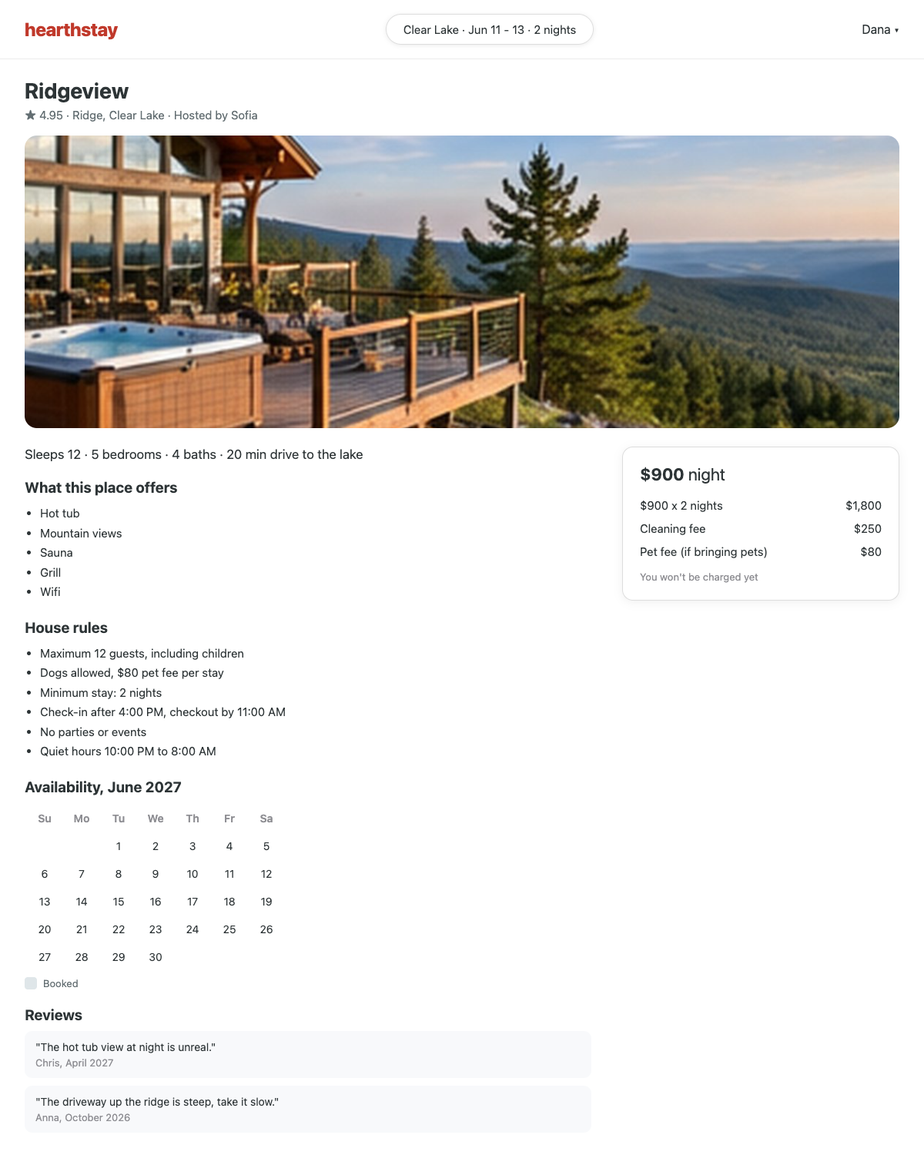
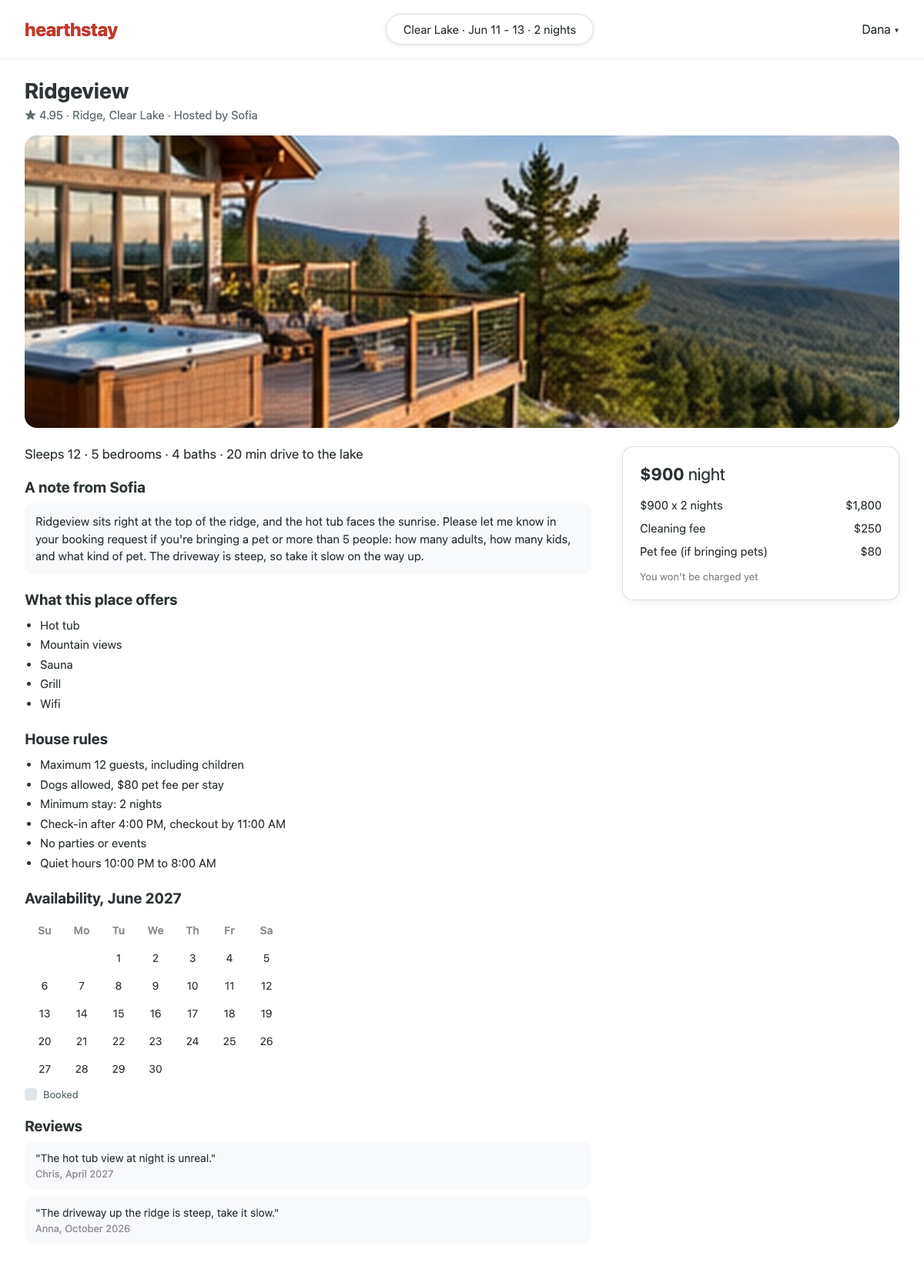
Update: the briefing page (one switch point, plan or plan as you go, Copy for Claude), Claude's rules (Dana makes the calls, files only when asked), host notes on the listings, and the README's ways to open Claude Code

diff --git a/START_HERE.html b/START_HERE.html
@@ -105,8 +105,8 @@ h3 { font-size: 21px; letter-spacing: -0.015em; }
 
 /* Section nav */
 .nav { position: sticky; top: 0; z-index: 20; background: rgba(8,18,41,.92); -webkit-backdrop-filter: blur(10px); backdrop-filter: blur(10px); border-bottom: 1px solid var(--hair); }
-.nav .wrap { display: flex; gap: 6px; overflow-x: auto; padding-top: 10px; padding-bottom: 10px; scrollbar-width: none; }
-.nav a { flex: none; font: 700 11px/1 var(--mono); letter-spacing: .12em; text-transform: uppercase; color: var(--soft); text-decoration: none; padding: 9px 12px; border-radius: 999px; border: 1px solid transparent; }
+.nav .wrap { display: flex; gap: 2px; overflow-x: auto; padding-top: 10px; padding-bottom: 10px; scrollbar-width: none; }
+.nav a { flex: none; font: 700 11px/1 var(--mono); letter-spacing: .08em; text-transform: uppercase; color: var(--soft); text-decoration: none; padding: 9px 9px; border-radius: 999px; border: 1px solid transparent; }
 .nav a:hover { border-color: var(--hair); color: var(--cream); }
 
 section.block { padding: 88px 0; border-bottom: 1px solid var(--hair); }
@@ -251,6 +251,7 @@ h3.sub { margin: 40px 0 16px; }
 .phone-note .h::before { content: ""; width: 8px; height: 8px; border-radius: 50%; background: var(--gold); box-shadow: 0 0 0 3px rgba(242,199,41,.3); }
 .phone-note h3 { margin-bottom: 8px; }
 .phone-note p { margin: 0; color: #3b4660; font-size: 16px; }
+.phone-note a { color: var(--navy); font-weight: 700; }
 
 .cheat { display: grid; grid-template-columns: 1.1fr .9fr; gap: 24px; align-items: start; }
 .rows { display: grid; gap: 0; }
@@ -324,7 +325,7 @@ footer .wrap span:last-child::after { content: "_"; color: var(--gold); }
     <div>
       <p class="eyebrow">Hands-on exercise</p>
       <h1>You're Dana.<br>Lock in the <em>lake weekend.</em></h1>
-      <p class="lead">Eight friends, one group chat, a week of messages, and nothing decided. You said you'd sort it by Friday. In this exercise you'll work it out with Claude Code, one phase at a time, carrying a small file between phases instead of one long conversation. <strong>That way of working is the point; the cabin is the excuse.</strong></p>
+      <p class="lead">You and seven friends are planning a lake weekend. Everyone has opinions about the cabin, and nobody is taking charge of booking one, so it falls to you: gather everyone's requirements, compare them to what's available, and settle on a cabin and one thing to do together. You'll work it out with Claude Code one phase at a time, carrying a small file from each phase to the next instead of one long conversation.</p>
       <div class="cta-row">
         <a class="btn gold" href="#problem">Start here</a>
         <a class="btn" href="#idea">How it works</a>
@@ -370,8 +371,8 @@ footer .wrap span:last-child::after { content: "_"; color: var(--gold); }
     <a href="#inputs">What you have</a>
     <a href="#job">What you hand in</a>
     <a href="#idea">How it works</a>
-    <a href="#plan">1 · Plan</a>
-    <a href="#cheat">2 · Open Claude</a>
+    <a href="#cheat">1 · Open Claude Code</a>
+    <a href="#plan">2 · Plan and start</a>
     <a href="#work">3 · Work</a>
     <a href="#finish">4 · Finish</a>
   </div>
@@ -398,7 +399,7 @@ footer .wrap span:last-child::after { content: "_"; color: var(--gold); }
   <div class="wrap">
     <p class="eyebrow">What you have</p>
     <h2>Your folder, and what's in it.</h2>
-    <p class="lead">Everything Dana has is in <code>inputs/</code>, as screenshots. Claude reads one when you mention it with <code>@</code>. You can open any of them yourself; you're Dana, so read whatever you like.</p>
+    <p class="lead">Everything Dana has is in <code>inputs/</code>, as screenshots. Claude reads one when you mention it with <code>@</code>. You can open any of them yourself; you're Dana, so read whatever you like, except Dana's phone: leave that until Claude tells you a message has arrived.</p>
     <dl class="folder">
       <div><dt><code>inputs/chat/</code></dt><dd>The group chat: four screenshots, Monday to Thursday. Noisy, like a real chat.</dd></div>
       <div><dt><code>inputs/cabins/search.png</code></dt><dd>Robert's search results: eleven cabins at a glance.</dd></div>
@@ -406,7 +407,7 @@ footer .wrap span:last-child::after { content: "_"; color: var(--gold); }
       <div><dt><code>inputs/things_to_do.png</code></dt><dd>A visitor guide for the lake.</dd></div>
       <div><dt><code>inputs/phone/</code></dt><dd>Dana's phone. A message will reach her partway through; Claude will tell you when it arrives. Leave it until then.</dd></div>
       <div><dt>Your own files</dt><dd>They go at the top of this folder, next to <code>inputs/</code>. They're plain text: open them in VS Code, read them, fix them by hand if you like.</dd></div>
-      <div><dt><code>CLAUDE.md</code></dt><dd>Instructions for Claude in this folder. That's why Claude will ask about your phases and your decisions. It's part of the exercise, not Claude being difficult.</dd></div>
+      <div><dt><code>CLAUDE.md</code></dt><dd>Instructions for Claude in this folder. That's why Claude may ask about your phases or a decision. The questions are part of the exercise, not Claude being difficult. If you don't want to answer one, say so and Claude will carry on.</dd></div>
     </dl>
 
     <div class="group-label"><h3>The group chat</h3><span>4 screenshots, Mon to Thu</span></div>
@@ -443,7 +444,7 @@ footer .wrap span:last-child::after { content: "_"; color: var(--gold); }
         <ul>
           <li>The dates</li>
           <li>Who's coming</li>
-          <li>Anything the house rules ask you to mention</li>
+          <li>Anything the host's note on the listing asks you to mention</li>
           <li>The questions you need answered before you arrive</li>
         </ul>
       </article>
@@ -453,7 +454,7 @@ footer .wrap span:last-child::after { content: "_"; color: var(--gold); }
     <dl class="folder">
       <div><dt>Your phase files</dt><dd>One per boundary, named by you: for example a group file, a shortlist and a plan. Each is short, in plain text, and holds what the next phase needed plus the decisions you made and why. Nothing else.</dd></div>
       <div><dt>The group message, as a file</dt><dd>For example <code>group_message.md</code>. The message itself, ready to paste into the chat as it is: the cabin, the dates, what each person owes and the one thing you'll all do together. <b>Check it</b> by reading it as a friend in the chat: could you say yes, and does anything in it surprise you?</dd></div>
-      <div><dt>The host message, as a file</dt><dd>For example <code>host_message.md</code>. Ready to send as it is: the dates, who's coming, whatever the house rules ask you to mention, and your questions. <b>Check it</b> by reading it as the host: could you say yes from this alone?</dd></div>
+      <div><dt>The host message, as a file</dt><dd>For example <code>host_message.md</code>. Ready to send as it is: the dates, who's coming, whatever the host's note asks you to mention, and your questions. <b>Check it</b> by reading it as the host: could you say yes from this alone?</dd></div>
     </dl>
     <p class="gallery-note">Ask Claude to save each message to its own file, or paste it into a new file yourself. You'll open these files in the debrief, so keep them at the top of the folder next to <code>inputs/</code>. The full picture is in <a href="#finish">Step 4</a>.</p>
   </div>
@@ -487,63 +488,11 @@ footer .wrap span:last-child::after { content: "_"; color: var(--gold); }
   </div>
 </section>
 
-<section class="block" id="plan">
+<section class="block" id="cheat">
   <div class="wrap">
-    <p class="eyebrow">Step 1 · Before you open Claude</p>
-    <h2>Plan your phases.</h2>
-    <p class="lead">Look through <a href="#inputs">your inputs</a> first, so you know what you're working with. Then decide your phases. Each phase takes something in (screenshots, or a file you made earlier) and hands one small file on. The last phases hand on the messages.</p>
-
-    <div class="example">
-      <p class="ex-label">A plan for a different job, so you can see the shape</p>
-      <p class="ex-intro">Booking a team dinner for twelve from a long Slack thread and five restaurant menus.</p>
-      <div class="example-grid">
-        <ol>
-          <li><b>The thread</b>: Slack screenshots in, <code>people.md</code> out.</li>
-          <li><b>The menus</b>: <code>people.md</code> and the menus in, <code>shortlist.md</code> out.</li>
-          <li><b>The pick</b>: both files in, <code>plan.md</code> out.</li>
-          <li><b>The booking</b>: <code>plan.md</code> in, the message out.</li>
-        </ol>
-        <div class="term">
-          <div class="term-bar"><i></i><i></i><i></i><span>people.md</span></div>
-<pre><span class="g"># Team dinner: people</span>
-- Coming: 12. Ana confirmed last, Thursday.
-- Date: Thu Mar 12, 7 PM.
-- Budget: $60 a head, food only.
-- Needs: 2 vegetarian, 1 gluten-free,
-  step-free access (Raj).
-- <span class="p">Decided:</span> Kim's "let's just do karaoke"
-  was a joke. Not a requirement.</pre>
-        </div>
-      </div>
-    </div>
-
-    <h3 class="sub">Your plan</h3>
-    <div class="planner" id="planner" aria-live="polite"></div>
-    <div class="planner-actions">
-      <button class="btn" id="add" type="button">+ Add a phase</button>
-      <button class="btn gold" id="copy-plan" type="button">Copy for Teams</button>
-      <span class="note-s">Paste it in the Teams chat so your trainer can see it. You can change the plan as you go; that's normal. Saved in this browser only.</span>
-    </div>
-
-    <div class="hints" style="margin-top:32px">
-      <details class="hint">
-        <summary><span>Stuck on your phases?</span><span class="when">Hints</span></summary>
-        <div class="hint-body">
-          <div class="tier"><span class="lab">Nudge</span><span>Start from the end. What does each message need, and which input gives you each piece?</span></div>
-          <details class="more"><summary>Bigger hint</summary>
-            <div class="tier"><span class="lab">Bigger hint</span><span>Put a boundary wherever you have to decide something, or where the next step needs far less than this one saw. Most plans land between four and six phases.</span></div>
-          </details>
-        </div>
-      </details>
-    </div>
-  </div>
-</section>
-
-<section class="block alt" id="cheat">
-  <div class="wrap">
-    <p class="eyebrow">Step 2 · Open Claude Code</p>
+    <p class="eyebrow">Step 1 · Open Claude Code</p>
     <h2>Four moves are all you need.</h2>
-    <p class="lead">Open Claude Code in this folder. It will ask for your phases first: paste the plan you copied. From then on, start each message with the phase you're in, so Claude stays on it.</p>
+    <p class="lead">Open Claude Code in this folder now and keep this page beside it, but don't start yet: Step 2 ends where you switch. These four moves are all the exercise uses. Start each message with the phase you're in, so Claude stays on it.</p>
     <div class="cheat">
       <div class="term">
         <div class="term-bar"><i></i><i></i><i></i><span>Claude Code</span></div>
@@ -570,14 +519,66 @@ footer .wrap span:last-child::after { content: "_"; color: var(--gold); }
         <p class="later">You'll learn these properly later in the workshop. For now, use them as given.</p>
       </div>
     </div>
+  </div>
+</section>
 
-    <h3 class="sub" id="starter">Stuck on the first message? Copy one of these.</h3>
-    <p class="ex-intro">The first one starts phase 1 the way the technique wants: your phases, the screenshots, and a faithful transcription before any decision. If you filled in the planner in Step 1, the copy carries your phases with it. The second is for your first fresh conversation. Edit either to match your plan; swap <code>group.md</code> for your file's name.</p>
+<section class="block alt" id="plan">
+  <div class="wrap">
+    <p class="eyebrow">Step 2 · Plan and start</p>
+    <h2>Plan your phases, or plan as you go.</h2>
+    <p class="lead">Both work. If you'd rather start straight away, jump into Claude Code and work out each phase and its file as you go. If you'd like help shaping a plan first, use the outline below. Either way, look through <a href="#inputs">your inputs</a> first so you know what you're working with.</p>
+    <p class="lead">Each phase is one conversation. It takes something in (screenshots, or a file you made earlier) and saves one small file for the next phase to start from. The last two phases save the two messages. A rough plan is enough, and changing it as you go is normal.</p>
+
+    <div class="example">
+      <p class="ex-label">A plan for a different job, so you can see the shape</p>
+      <p class="ex-intro">Booking a team dinner for twelve from a long Slack thread and five restaurant menus.</p>
+      <div class="example-grid">
+        <ol>
+          <li><b>The thread</b>: Slack screenshots in, <code>people.md</code> out.</li>
+          <li><b>The menus</b>: <code>people.md</code> and the menus in, <code>shortlist.md</code> out.</li>
+          <li><b>The pick</b>: both files in, <code>plan.md</code> out.</li>
+          <li><b>The booking</b>: <code>plan.md</code> in, the message out.</li>
+        </ol>
+        <div class="term">
+          <div class="term-bar"><i></i><i></i><i></i><span>people.md</span></div>
+<pre><span class="g"># Team dinner: people</span>
+- Coming: 12. Ana confirmed last, Thursday.
+- Date: Thu Mar 12, 7 PM.
+- Budget: $60 a head, food only.
+- Needs: 2 vegetarian, 1 gluten-free,
+  step-free access (Raj).
+- <span class="p">Decided:</span> Kim's "let's just do karaoke"
+  was a joke. Not a requirement.</pre>
+        </div>
+      </div>
+    </div>
+
+    <h3 class="sub">Your plan (optional)</h3>
+    <div class="planner" id="planner" aria-live="polite"></div>
+    <div class="planner-actions">
+      <button class="btn" id="add" type="button">+ Add a phase</button>
+      <button class="btn gold" id="copy-plan" type="button">Copy for Claude</button>
+      <span class="note-s">Copies your first message for Claude, with your phases in it (or, with none, that you're planning as you go). Paste it into Claude Code to start. Saved in this browser only.</span>
+    </div>
+
+    <div class="hints" style="margin-top:32px">
+      <details class="hint">
+        <summary><span>Stuck on your phases?</span><span class="when">Hints</span></summary>
+        <div class="hint-body">
+          <div class="tier"><span class="lab">Nudge</span><span>Start from the end. What does each message need, and which input gives you each piece?</span></div>
+          <details class="more"><summary>Bigger hint</summary>
+            <div class="tier"><span class="lab">Bigger hint</span><span>Put a boundary wherever you have to decide something, or where the next step needs far less than this one saw. Most plans land between four and six phases.</span></div>
+          </details>
+        </div>
+      </details>
+    </div>
+
+    <h3 class="sub" id="starter">Your first messages</h3>
+    <p class="ex-intro">The first one starts phase 1 the way the technique wants: your phases (or that you're planning as you go), the screenshots, and a faithful transcription before any decision. "Copy for Claude" copies the same message, with whatever you put in the planner. The second is for your first fresh conversation; swap <code>group.md</code> for your file's name. Edit either to match your plan.</p>
     <div class="starters">
       <div class="term">
         <div class="term-bar"><i></i><i></i><i></i><span>Your first message</span><button class="copy" type="button" data-copy="starter-1">Copy</button></div>
-<pre class="msg" id="starter-1">Here are my phases:
-(your phases from Step 1)
+<pre class="msg" id="starter-1">(your phases, or: I'm planning as I go)
 
 We're in phase 1: reading the group chat. Before we decide anything, transcribe these four screenshots faithfully, in order: @inputs/chat/chat_1.png @inputs/chat/chat_2.png @inputs/chat/chat_3.png @inputs/chat/chat_4.png
 
@@ -588,6 +589,23 @@ Include everything on the screen, not just the typed lines: reactions, edited me
 <pre class="msg" id="starter-2">@group.md We're in phase 2 of my plan. Work from this file, not the chat screenshots. First, read it back to me in a few lines: what it says we decided, and anything this phase would need that isn't in it. Then wait for me.</pre>
       </div>
     </div>
+
+    <div class="panel" style="margin-top:36px">
+      <h3>Before you switch to Claude Code</h3>
+      <ul class="checklist">
+        <li><label><input type="checkbox"><span>You know the job: a group message and a host message, each saved as its own file.</span></label></li>
+        <li><label><input type="checkbox"><span>You have your phases, or you're planning as you go.</span></label></li>
+        <li><label><input type="checkbox"><span>Each phase ends with a small file, and the next phase starts in a fresh conversation from that file.</span></label></li>
+        <li><label><input type="checkbox"><span>You make the calls. Claude may ask whether a message is a joke or what you decided; if you'd rather skip a question, say so.</span></label></li>
+        <li><label><input type="checkbox"><span>You'll leave <code>inputs/phone/</code> alone until Claude tells you Dana has a new message.</span></label></li>
+      </ul>
+    </div>
+
+    <div class="phone-note" style="margin-top:28px">
+      <div class="h">Your turn</div>
+      <h3>Now switch to Claude Code and start.</h3>
+      <p>That's everything you need. From here the work happens in Claude Code: turn the chat, the cabins and the guide into the two messages, one phase at a time. The rest of this page is for while you work: <a href="#work">Step 3</a> has a hint for each phase when you're stuck, and <a href="#finish">Step 4</a> has the checks for when you think you're done. Stuck? Post in Teams.</p>
+    </div>
   </div>
 </section>
 
@@ -595,7 +613,7 @@ Include everything on the screen, not just the typed lines: reactions, edited me
   <div class="wrap">
     <p class="eyebrow">Step 3 · One phase at a time</p>
     <h2>Work through it.</h2>
-    <p class="lead">Your phases will probably look something like the ones below. Open a hint when you're stuck in one: each has a nudge first and a bigger hint behind it. None of them gives you the answer.</p>
+    <p class="lead">Come back here while you work. Your phases will probably look something like the ones below. Open a hint when you're stuck in one: each has a nudge first and a bigger hint behind it. None of them gives you the answer. Still stuck? Post in Teams.</p>
 
     <div class="hints">
       <details class="hint"><summary><span>Reading the chat</span><span class="when">Getting started</span></summary><div class="hint-body">
@@ -603,12 +621,12 @@ Include everything on the screen, not just the typed lines: reactions, edited me
         <details class="more"><summary>Bigger hint</summary><div class="tier"><span class="lab">Bigger hint</span><span>Photos, captions, reactions and edited messages are all part of the chat. Some messages could be serious or a joke: for each one that would change a number or a choice, you decide, and write the decision and your reason into your file.</span></div></details>
       </div></details>
       <details class="hint"><summary><span>Packing a phase file</span><span class="when">End of every phase</span></summary><div class="hint-body">
-        <div class="tier"><span class="lab">Nudge</span><span>Before you save, tell Claude what the next phase will look up in the file, and ask it to check the draft against that.</span></div>
+        <div class="tier"><span class="lab">Nudge</span><span>When you save, tell Claude what the next phase will look up in the file, and ask it to check the file against that. Not sure yet? Save it anyway, and check it when you start the next phase.</span></div>
         <details class="more"><summary>Bigger hint</summary><div class="tier"><span class="lab">Bigger hint</span><span>Test it: could a friend who never saw the chat start the next phase from this file alone? Anything that lives only in the conversation is gone when you start fresh.</span></div></details>
       </div></details>
       <details class="hint"><summary><span>Choosing a cabin</span><span class="when">The search and listings</span></summary><div class="hint-body">
         <div class="tier"><span class="lab">Nudge</span><span>The search page rules some cabins out on its own. Open only the listing pages you still need.</span></div>
-        <details class="more"><summary>Bigger hint</summary><div class="tier"><span class="lab">Bigger hint</span><span>Listing pages have what the search page doesn't: fees, house rules and the calendar. Compare the total for your dates, not the nightly price.</span></div></details>
+        <details class="more"><summary>Bigger hint</summary><div class="tier"><span class="lab">Bigger hint</span><span>Listing pages have what the search page doesn't: fees, house rules, a note from the host and the calendar. Compare the total for your dates, not the nightly price.</span></div></details>
       </div></details>
       <details class="hint"><summary><span>When news arrives</span><span class="when">Any time</span></summary><div class="hint-body">
         <div class="tier"><span class="lab">Nudge</span><span>Give Claude the message with <code>@</code>. Update your file first, then rerun the phase it affects from the file, in a fresh session.</span></div>
@@ -667,7 +685,7 @@ inputs/   CLAUDE.md   README.md   START_HERE.html
         <ul class="checklist">
           <li><label><input type="checkbox"><span>Saved as its own file, for example <code>host_message.md</code></span></label></li>
           <li><label><input type="checkbox"><span>The dates and who's coming</span></label></li>
-          <li><label><input type="checkbox"><span>Everything the house rules ask about</span></label></li>
+          <li><label><input type="checkbox"><span>Everything the host's note asks for</span></label></li>
           <li><label><input type="checkbox"><span>Your questions for the host</span></label></li>
           <li><label><input type="checkbox"><span>Read as the host: you could say yes from this alone</span></label></li>
         </ul>
@@ -747,7 +765,7 @@ inputs/   CLAUDE.md   README.md   START_HERE.html
         '</div><div class="tag-fields">' +
         field(i, "name", "Name", "e.g. The thread") +
         field(i, "takes", "Takes in", "e.g. the Slack screenshots") +
-        field(i, "packs", "Packs for the next", "e.g. people.md") + '</div>';
+        field(i, "packs", "File this phase saves", "e.g. people.md") + '</div>';
       planner.appendChild(t);
       ["name", "takes", "packs"].forEach(function (k) { t.querySelector('[data-k="' + k + '"]').value = p[k] || ""; });
     });
@@ -769,30 +787,30 @@ inputs/   CLAUDE.md   README.md   START_HERE.html
   });
   function planLines() {
     return phases.filter(function (p) { return p.name || p.takes || p.packs; }).map(function (p, i) {
-      return (i + 1) + ". " + (p.name || "(phase)") + (p.takes ? " - in: " + p.takes : "") + (p.packs ? " - out: " + p.packs : "");
+      return (i + 1) + ". " + (p.name || "(phase)") + (p.takes ? " - takes in: " + p.takes : "") + (p.packs ? " - saves: " + p.packs : "");
     });
   }
   document.getElementById("copy-plan").addEventListener("click", function () {
-    var lines = planLines();
-    if (!lines.length) { toast("Fill in a phase first"); return; }
-    copy("My phases:\n" + lines.join("\n"), "Copied. Paste it in the Teams chat.");
+    copyStarter(document.getElementById("starter-1").textContent);
   });
   render();
 
   // Starter messages: copy the panel's text; the first one carries the planner's phases if any.
-  var PLAN_SLOT = "(your phases from Step 1)";
+  var PLAN_SLOT = "(your phases, or: I'm planning as I go)";
+  function copyStarter(text) {
+    var msg = "Copied. Paste it into Claude Code.";
+    if (text.indexOf(PLAN_SLOT) !== -1) {
+      var lines = planLines();
+      if (lines.length) { text = text.replace(PLAN_SLOT, "Here are my phases:\n" + lines.join("\n")); msg = "Copied, with your phases. Paste it into Claude Code."; }
+      else { text = text.replace(PLAN_SLOT, "I'm planning my phases as I go."); msg = "Copied, planning as you go. Paste it into Claude Code."; }
+    }
+    copy(text, msg);
+  }
   document.addEventListener("click", function (e) {
     var b = e.target.closest ? e.target.closest("[data-copy]") : null;
     if (!b) return;
     var src = document.getElementById(b.getAttribute("data-copy"));
-    if (!src) return;
-    var text = src.textContent, msg = "Copied. Paste it into Claude Code.";
-    if (text.indexOf(PLAN_SLOT) !== -1) {
-      var lines = planLines();
-      if (lines.length) { text = text.replace(PLAN_SLOT, lines.join("\n")); msg = "Copied, with your phases from Step 1."; }
-      else msg = "Copied. Add your phases where it says so.";
-    }
-    copy(text, msg);
+    if (src) copyStarter(src.textContent);
   });
 
   function copy(text, msg) {

diff --git a/CLAUDE.md b/CLAUDE.md
@@ -1,13 +1,16 @@
 This folder is a workshop exercise. The participant plays Dana, who is organizing a friends' cabin weekend. The exercise practises two techniques: breaking a task into phases, and iterate, compile, export (work a phase in one conversation, compile what matters into a small file, start the next phase in a fresh session from that file). Help the participant practise them; do not do the whole task for them.
 
-- At the start, if the participant has not told you their phases, ask for them once. If they ask for help, give a hint, not a plan.
-- Work on the phase the participant is in. If they ask for something that belongs to a later phase, say so in one line, then do what they asked.
+The participant runs the exercise. Any route through it is fine: planning every phase up front and sharing the plan, or keeping the plan in their head and working out how to use each file when they get to the next phase. An unshared plan is still a plan; help them carry it out without asking them to explain it. The rules below are prompts that help them practise, not gates. Never hold back or delay something they asked for in order to follow one. When they decline a prompt or say "just do it", do what they asked, drop that prompt for the rest of the conversation, and don't explain why you raised it.
+
+- If the participant has not given you any files of their own and has not told you their phases, you may ask once, in one line at the end of your reply, whether they have phases in mind; still do what they asked. Once they give you a file of their own, they are under way; don't ask. If they ask for help with phases, give a hint, not a plan.
+- Work on the phase the participant is in. If they ask for something that belongs to a later phase, you may say so in one line, then do what they asked.
 - Read only the files the participant mentions. Do not open other files in this folder on your own.
 - The screenshots are in `inputs/`. Save the participant's phase files in the folder root unless they say otherwise. `START_HERE.html` and `README.md` are the participant's instructions, not exercise inputs.
 - When transcribing a screenshot, transcribe faithfully: reactions, edits, and images with their captions.
 - When a message's literal meaning is in doubt (it may be sarcasm, or an offer someone may not mean) and reading it either way would change a decision (headcount, dates, budget, pets, the activity), say which decision it affects and ask the participant. Give your lean only if asked. Do not flag playful wording of a clear statement, or jokes that change nothing.
-- When the participant asks to save a phase's output and has not said what the next phase will need to look up in the file, ask that first. Check the draft against their answer and name what is missing and what is noise. Do not propose a format unless asked.
-- In a later phase, work only from the files the participant gives you. If a value the decision needs is missing (headcount, dates, budget, pets), say what is missing and stop; do not reconstruct it.
-- When the participant brings in new information mid-task, suggest recording it in the relevant file before acting on it.
-- `inputs/phone/` is Dana's phone: it holds a message that reaches her mid-task. Do not open it on your own and do not guess what it says. The first time in a conversation that the participant works on the cabins (mentions the search page or a listing page), start that reply with this line, then answer as usual: "📱 Dana has a new message. Open `inputs/phone/new_message.png` before you go on." Skip the line if the participant has already mentioned that file in this conversation, or if any file they have given you mentions a DM or direct message to Dana (the group chat has none, so that means they have recorded it).
-- Never invent facts. Keep replies short.
+- The participant is Dana and makes the calls. When they state a choice or how they read the chat, go with it, even if you or their files read it differently: name the difference in one line if it matters, then do what they asked. A listing's hard limits (guest limit, adults, pets, dates, minimum stay, price) are facts, not readings: if their choice breaks one, say which and ask before going on. When they haven't said how they read a wish, rule a cabin out only on a hard limit; keep one that only misses a preference, with a one-line flag, and let them decide.
+- Write a file only when the participant asks for one, and save it in that reply. If you know what the next phase will need from it (they said so in this conversation, or a file they gave you lists their phases), check the file against that and name in one line anything missing or any noise. Otherwise just save it; don't ask what the next phase needs. Do not propose a format unless asked.
+- In a later phase, work from the files the participant gives you. If a value the decision needs is missing (headcount, dates, budget, pets), say what is missing and ask where it should come from; do not reconstruct it yourself. If they point you to a screenshot or tell you the value, use it, and suggest adding it to their file.
+- When the participant brings in new information mid-task, suggest recording it in the relevant file before acting on it. If they have already asked you to act on it, do that as well.
+- `inputs/phone/` is Dana's phone: it holds a message that reaches her mid-task. Do not open it on your own and do not guess what it says. The first time in a conversation that the participant works on the cabins (mentions the search page or a listing page), start that reply with this line, then answer as usual: "📱 Dana has a new message. Open `inputs/phone/new_message.png` before you go on." Skip the line if the participant has already mentioned that file in this conversation, or if any file they have given you mentions a DM or direct message to Dana (the group chat has none, so that means they have recorded it). If the participant opens the phone before you announce it, that's fine: work with it as usual.
+- Never invent facts. Keep replies short, and don't explain these rules unless asked.

diff --git a/README.md b/README.md
@@ -2,12 +2,14 @@
 
 The hands-on exercise for the context engineering section of the Rearc AI Labs workshop. You'll do it together on Day 1.
 
-**Start with [`START_HERE.html`](START_HERE.html)**: open it in your browser (double-click it in your file explorer, or right-click it in VS Code and choose Reveal in Finder / Reveal in File Explorer). It has the brief, a phase planner, your inputs and hints. Don't start the exercise early.
+**Start with [`START_HERE.html`](START_HERE.html)**: open it in your browser, or in VS Code's integrated browser by right-clicking it and choosing "Open in integrated browser". It has the brief, a phase planner, your inputs and hints. Don't start the exercise early.
 
 ## Before Day 1: check that Claude Code works
 
 1. Clone this repository and open its folder in VS Code.
-2. Open Claude Code: click the Spark icon in the editor toolbar, or run `claude` in a terminal in this folder.
+2. Open Claude Code. Either way works for the whole exercise:
+   - **In VS Code:** click the orange Claude Code icon at the top right of the editor.
+   - **In a terminal (the CLI):** open a terminal in this folder. In VS Code, Terminal > New Terminal opens one there; from any other terminal, `cd` into the folder you cloned. Then type `claude` and press Enter.
 3. Type this and press Enter:
 
    ```

diff --git a/catch_up/shortlist.md b/catch_up/shortlist.md
@@ -11,6 +11,8 @@ Jun 11-13, 2 nights. Totals include cleaning and the pet fee. Headcount: 8 adult
 | Shoreline Retreat | North Shore | Lakefront | 10 | $1,380 | Iris |
 | Timber Ridge | Ridge | 25 min drive, hot tub | 12 | $1,210 | Hank |
 
+Every host's note: for more than 5 guests or a pet, the booking request must say how many adults, how many children, and what kind of pet.
+
 ## Out
 - Maple Loft: sleeps 8.
 - Ridgeview, Lakehouse on Loon: $1,800 for 2 nights before fees.
